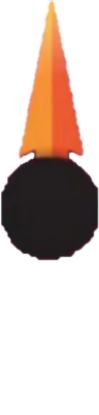
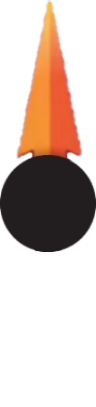
Fixed parts of the battle-cards being separate, and remade the battle wheel/arrow/win-wheel

diff --git a/src/main/resources/templates/parts/fight/battle.html b/src/main/resources/templates/parts/fight/battle.html
@@ -7,6 +7,7 @@
     <link th:href="@{/css/parts/profile.css}" rel="stylesheet"/>
     <link th:href="@{/css/parts/fight/battle.css}" rel="stylesheet"/>
     <link th:href="@{/css/parts/fight/fight.css}" rel="stylesheet"/>
+    <link th:href="@{/css/parts/standard.css}" rel="stylesheet"/>
 </head>
 <body>
 
@@ -47,7 +48,7 @@
     <div class="next-button">
         <form th:action="@{/fmm/battle/2}">
             <div th:replace="~{parts/fight/fragments-fight.html :: battle-form-and-monsters}"></div>
-            <button> <img th:src="@{/images/fight/battle/next-button.png}" alt="next-button"></button>
+            <button><img th:src="@{/images/fight/battle/next-button.png}" alt="next-button"></button>
         </form>
     </div>
 </div>
@@ -56,7 +57,7 @@
     <div class="next-button">
         <form th:action="@{/fmm/battle/3}">
             <div th:replace="~{parts/fight/fragments-fight.html :: battle-form-and-monsters}"></div>
-            <button> <img th:src="@{/images/fight/battle/next-button.png}" alt="you-win"></button>
+            <button><img th:src="@{/images/fight/battle/next-button.png}" alt="you-win"></button>
         </form>
     </div>
 </div>
@@ -74,15 +75,17 @@
 
     </div>
     <div class="background-container">
-        <img th:src="@{/images/fight/battle/wheel-arrow.png}" alt="wheel-arrow"
-             th:style="'top: 351px; right: 908px; transform: rotate('+@{${BattleForm.randomDegrees}}+'deg);'">
+        <div class="wheel-arrow">
+            <img th:src="@{/images/fight/battle/wheel-arrow.png}" alt="wheel-arrow"
+                 th:style="'transform: rotate('+@{${BattleForm.randomDegrees}}+'deg);'">
+        </div>
     </div>
 </div>
 
 <div th:if="${BattleForm.battleIndex == 3}">
     <div class="next-button">
         <form th:action="@{/fmm/my-profile}">
-            <button> <img th:src="@{/images/fight/battle/next-button.png}" alt="you-win"></button>
+            <button><img th:src="@{/images/fight/battle/next-button.png}" alt="you-win"></button>
         </form>
     </div>
 </div>

diff --git a/src/main/resources/static/css/parts/fight/battle.css b/src/main/resources/static/css/parts/fight/battle.css
@@ -11,13 +11,20 @@
 .win-wheel {
     position: absolute;
 
-    top: 303px;
-    left: 708px;
+    top: 335px;
+    left: 735px;
 
-    height: 499px;
+    width: 451px;
+    height: 449px;
 
-    transform: scale(0.97);
     background-image: url(/images/fight/battle/win-wheel.png);
+}
+
+.wheel-arrow {
+    position: absolute;
+
+    top: 355px;
+    left: 912px
 }
 
 /* end background-images */
@@ -59,6 +66,7 @@
 
 .win-lose {
     position: absolute;
+
     top: 179px;
     right: 886px;
 

diff --git a/src/main/java/com/fmm/controller/BattleController.java b/src/main/java/com/fmm/controller/BattleController.java
@@ -66,7 +66,7 @@ public class BattleController {
         BattleForm battleForm = new BattleForm();
         battleForm.setMyMonsterBefore(myMonsterDto);
         battleForm.setOpponentMonsterBefore(opponentMonsterDto);
-        battleForm.setChanceToWinGraphic((int) (realPercentageChanceToWin * 5.08)); //the width of the win-wheel is 508px
+        battleForm.setChanceToWinGraphic((int) (realPercentageChanceToWin * 4.51)); //the width of the win-wheel is 451px
         battleForm.setBattleBackground(new Random().nextInt(17));
         battleForm.setBattleIndex(1);
 
